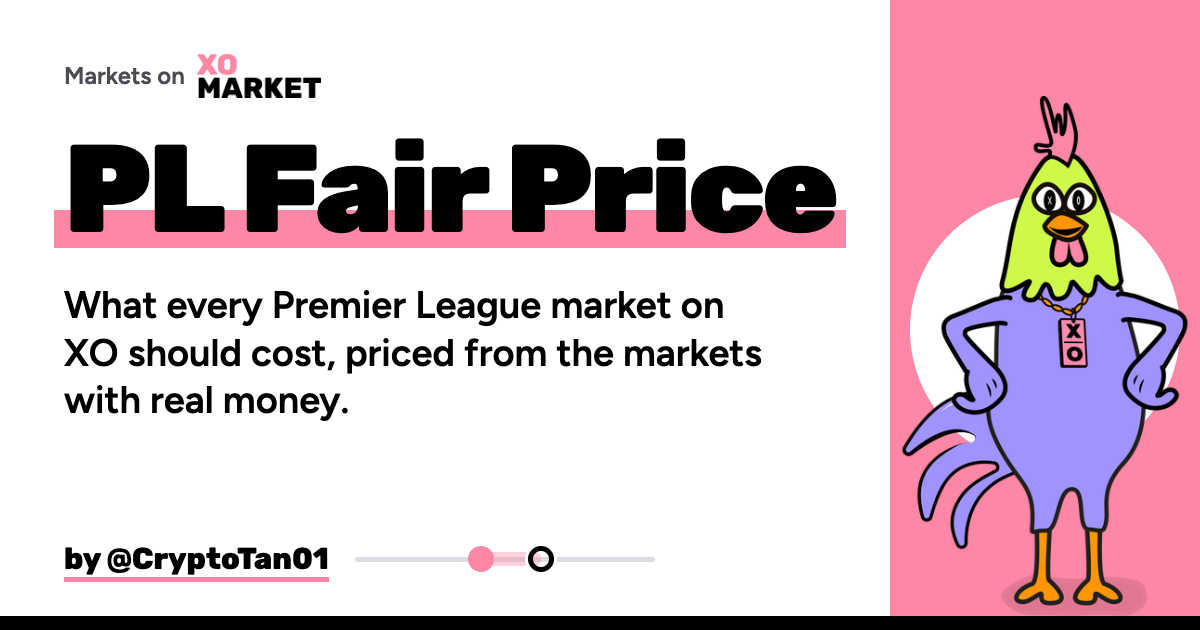
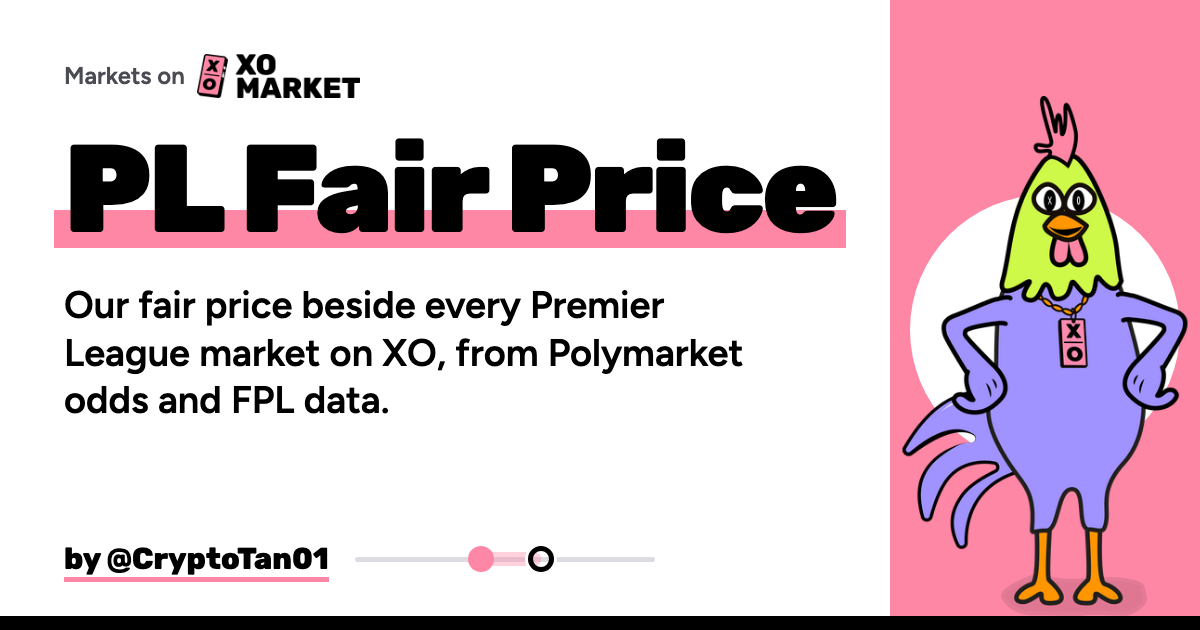
PL Fair Price: XO CTAs, new tagline, in-play markets, click tracking
- index and GW pages: "Trade GW{n} markets on XO" and "New to XO? Sign up"
  links with ?r=cryptotan01 under the GW card and after captain picks.
- Markets: the soonest match not yet kicked off opens by default, and a
  refresh keeps whatever the reader opened or closed.
- Locked markets show a neutral "In play" badge instead of the Trade pill;
  the count line reads "N markets open on XO · M in play".
- Refresh copy: prices refresh every 10 minutes; XO prices poll every 30 s.
- New tagline everywhere (site, engine, og image and og source).
- og.png rebuilt with the brand lockup (black XO MARKET) in place of the
  pink wordmark; Rubik and Figtree per the brand book.
- GW page: visible Polymarket "source" links removed from the goals section.
- GoatCounter: GOATCOUNTER constant, empty = off. One delegated click
  listener counts [data-goatcounter-click] links, so rows drawn later count.

Changed region(s): [[0.0308, 0.4524, 0.6475, 0.6635], [0.1542, 0.0603, 0.3083, 0.181]]

diff --git a/site/app.js b/site/app.js
@@ -31,6 +31,8 @@ async function init() {
 /* ---------- market row ---------- */
 
 const isRough = (m) => !!m.fair && m.fair.confidence === 'low';
+// A market stops trading at its lock: kickoff, or the start of the gameweek that decides it.
+const isOpen = (m) => !m.lock_at || Date.parse(m.lock_at) > Date.now();
 
 function closesText(exp) {
   if (!exp) return null;
@@ -124,8 +126,14 @@ function safeLink(url, text, cls) {
   return u ? h('a', { href: u, target: '_blank', rel: 'noopener', class: cls || null, text }) : null;
 }
 
-function marketLink(m, cls) {
-  return h('a', { href: tradeUrl(m), target: '_blank', rel: 'noopener', class: cls || null, text: m.title });
+function marketLink(m, cls, track) {
+  return h('a', { href: tradeUrl(m), target: '_blank', rel: 'noopener', class: cls || null, text: m.title, 'data-goatcounter-click': track || 'xo-market' });
+}
+
+// A locked market has no trade link: a neutral badge instead.
+function tradePill(m, cls) {
+  return isOpen(m) ? h('a', { class: cls, href: tradeUrl(m), target: '_blank', rel: 'noopener', 'aria-label': 'Trade on XO', 'data-goatcounter-click': 'xo-market' }, 'Trade on', wordmark('wm'))
+    : h('span', { class: 'in-play', text: 'In play' });
 }
 
 function pricePair(m) {
@@ -183,7 +191,7 @@ function marketRow(m, extra, openWhy) {
     isRough(m) ? h('span', { class: 'rough-tag' }, explain('Rough', 'rough')) : null);
   const act = h('div', { class: 'act' },
     h('button', { type: 'button', class: 'win', text: 'What would I win?', onclick: (e) => { const d = e.currentTarget.closest('.mrow').querySelector('.market-details'); d.open = true; d.scrollIntoView({ block: 'nearest' }); } }),
-    h('a', { class: 'trade', href: tradeUrl(m), target: '_blank', rel: 'noopener', 'aria-label': 'Trade on XO' }, 'Trade on', wordmark('wm')),
+    tradePill(m, 'trade'),
   );
   return h('article', { id: m.slug, class: 'mrow' + (extra ? ' ' + extra : '') + (m.is_ours ? ' is-ours' : '') },
     q, closes ? h('p', { class: 'closes', text: closes }) : null, pricePair(m), verdict(m), act, whyDetails(m, openWhy));
@@ -193,9 +201,7 @@ function marketRow(m, extra, openWhy) {
 
 function renderGaps() {
   const sec = document.getElementById('gaps');
-  // a market leaves Best value at its lock: kickoff, or the start of the gameweek that decides it
-  const open = (m) => !m.lock_at || Date.parse(m.lock_at) > Date.now();
-  const list = state.markets.filter((m) => m.fair && ['high', 'medium'].includes(m.fair.confidence) && open(m)).map((m) => {
+  const list = state.markets.filter((m) => m.fair && ['high', 'medium'].includes(m.fair.confidence) && isOpen(m)).map((m) => {
     const choices = ['yes', 'no'].map((side) => ({ side, r: calculateStake(10, side, levels(m, side, 'asks'), m.taker_fee_bps / 10000, m.fair) }));
     return { m, ...choices.sort((a, b) => (b.r.ev || -Infinity) - (a.r.ev || -Infinity))[0] };
   }).filter((x) => x.r.ev > 0).sort((a, b) => b.r.ev - a.r.ev).slice(0, 5);
@@ -203,7 +209,7 @@ function renderGaps() {
   const el = document.getElementById('gaps-list');
   if (!list.length) { el.replaceChildren(h('p', { class: 'empty', text: 'No positive-value trades right now' })); return; }
   el.replaceChildren(...list.map(({ m, side, r }) => h('article', { class: 'value-row' },
-    marketLink(m),
+    marketLink(m, null, 'xo-best-value'),
     h('b', { text: side.toUpperCase() }),
     h('span', { text: `You'd buy at ${pct(r.averagePrice)} · our price ${pct(side === 'yes' ? m.fair.p : 1 - m.fair.p)}` }),
     h('span', null, explain('Expected value', 'ev'), ` ${money(r.ev, true)} per $10`),
@@ -228,7 +234,7 @@ function renderMyMarkets() {
       h('div', { class: 'my-body' },
         m.pitch ? h('div', { class: 'my-call' }, h('h3', { text: 'My call when I made it' }), h('p', { text: m.pitch })) : null,
         pricePair(m),
-        h('div', { class: 'my-actions' }, h('a', { class: 'trade', href: tradeUrl(m), target: '_blank', rel: 'noopener' }, 'Trade on', wordmark('wm'))),
+        h('div', { class: 'my-actions' }, tradePill(m, 'trade')),
         stakePanel(m),
         poster ? h('img', { class: 'market-poster', src: poster, alt: `Poster for ${m.title}`, width: 1080, height: 1350, loading: 'lazy', decoding: 'async' }) : null));
     return card;
@@ -258,21 +264,26 @@ function groupBest(rows) {
   return `Best: ${pick.side.toUpperCase()} ${money(pick.r.ev, true)} per $10`;
 }
 
+// The match group that opened by default on the last render.
+let defaultOpen = null;
+
 function renderMarkets() {
   const root = document.getElementById('mk-list');
   const all = state.markets.filter((m) => !state.query || `${m.title} ${m.fixture ? `${m.fixture.home_name} ${m.fixture.away_name}` : ''}`.toLowerCase().includes(state.query));
-  document.getElementById('mk-count').textContent = `${all.length} live market${all.length === 1 ? '' : 's'} on XO`;
+  const openN = all.filter(isOpen).length;
+  document.getElementById('mk-count').textContent = `${openN} market${openN === 1 ? '' : 's'} open on XO${openN < all.length ? ` · ${all.length - openN} in play` : ''}`;
   if (!all.length) { root.replaceChildren(h('p', { class: 'empty', text: 'No markets match' })); return; }
   const frag = document.createDocumentFragment();
-  const addGroup = (left, meta, rows, note) => {
+  const addGroup = (left, meta, rows, note, key, startOpen) => {
     const bestText = groupBest(rows);
     const head = groupHead(left, [meta, bestText].filter(Boolean).join(' · '));
-    frag.append(h('details', { class: 'group', open: state.query ? true : null }, head, note || null,
+    frag.append(h('details', { class: 'group', 'data-key': key || null, open: state.query || startOpen ? true : null }, head, note || null,
       rows.length ? h('div', { class: 'list' }, rows.map((m) => marketRow(m))) : null));
   };
   const plural = (n) => `${n} market${n === 1 ? '' : 's'}`;
 
   if (state.sort === 'closing') {
+    defaultOpen = null;
     const now = new Date();
     const sorted = [...all].sort((a, b) => (a.exp ?? Infinity) - (b.exp ?? Infinity));
     const groups = new Map();
@@ -303,16 +314,25 @@ function renderMarkets() {
     } else if (m.horizon === 'weekend') weekend.push(m);
     else long.push(m);
   });
-  [...fixtures.values()].sort((a, b) => new Date(a.f.kickoff_utc) - new Date(b.f.kickoff_utc)).forEach(({ f, rows }) => {
+  // Each refresh rebuilds this list, so a group keeps the open or closed state the reader left it in.
+  // The soonest match that has not kicked off opens by default, and again whenever that match changes.
+  const was = new Map([...root.querySelectorAll('.group[data-key]')].map((x) => [x.dataset.key, x.open]));
+  const ordered = [...fixtures.values()].sort((a, b) => new Date(a.f.kickoff_utc) - new Date(b.f.kickoff_utc));
+  const next = ordered.find(({ f }) => Date.parse(f.kickoff_utc) > Date.now());
+  const nextKey = next ? `${next.f.home}-${next.f.away}` : null;
+  const moved = nextKey !== defaultOpen;
+  defaultOpen = nextKey;
+  ordered.forEach(({ f, rows }) => {
     rows.sort(byOursPriced);
+    const key = `${f.home}-${f.away}`;
     const left = h('span', { class: 'gmatch' }, crest(f.home, 24), h('span', { class: 'gname', text: `${f.home_name || teamName(f.home)} v ${f.away_name || teamName(f.away)}` }), crest(f.away, 24));
     const isLive = state.live.has(`${f.home}-${f.away}`);
     const et = elevenText(f.home, f.away);
     const note = h('div', { class: 'group-notes' },
-      isLive ? h('p', { class: 'gnote', text: 'Prices update every 20 minutes during matches.' }) : null,
+      isLive ? h('p', { class: 'gnote', text: 'Our prices refresh every 10 minutes. XO prices on this page update live every 30 seconds.' }) : null,
       elevenLine(et));
     addGroup(isLive ? h('span', { class: 'gmatch' }, left, h('span', { class: 'live' }, 'Live')) : left,
-      `${f.kickoff_utc ? kickoffFmt(f.kickoff_utc) + ' · ' : ''}${plural(rows.length)}`, rows, note);
+      `${f.kickoff_utc ? kickoffFmt(f.kickoff_utc) + ' · ' : ''}${plural(rows.length)}`, rows, note, key, (moved && key === nextKey) || !!was.get(key));
   });
   if (weekend.length) { weekend.sort(byOursPriced); addGroup(h('span', { class: 'gname', text: 'Across the weekend' }), plural(weekend.length), weekend); }
   if (long.length) {

diff --git a/site/index.html b/site/index.html
@@ -4,22 +4,22 @@
 <meta charset="utf-8">
 <meta name="viewport" content="width=device-width, initial-scale=1">
 <title>PL Fair Price</title>
-<meta name="description" content="What every Premier League market on XO should cost, priced from the markets with real money.">
+<meta name="description" content="Our fair price beside every Premier League market on XO, from Polymarket odds and FPL data.">
 <meta name="theme-color" content="#ff87a6">
 <meta property="og:type" content="website">
 <meta property="og:title" content="PL Fair Price by @CryptoTan01">
-<meta property="og:description" content="What every Premier League market on XO should cost, priced from the markets with real money.">
+<meta property="og:description" content="Our fair price beside every Premier League market on XO, from Polymarket odds and FPL data.">
 <meta property="og:image" content="https://tannnnnnnnnnnnn.github.io/pl-fair-price/assets/og.png">
 <meta property="og:image:width" content="1200">
 <meta property="og:image:height" content="630">
 <meta name="twitter:card" content="summary_large_image">
 <meta name="twitter:title" content="PL Fair Price by @CryptoTan01">
-<meta name="twitter:description" content="What every Premier League market on XO should cost, priced from the markets with real money.">
+<meta name="twitter:description" content="Our fair price beside every Premier League market on XO, from Polymarket odds and FPL data.">
 <meta name="twitter:image" content="https://tannnnnnnnnnnnn.github.io/pl-fair-price/assets/og.png">
 <link rel="icon" href="favicon.svg" type="image/svg+xml">
 <link rel="preconnect" href="https://fonts.googleapis.com">
 <link rel="preconnect" href="https://fonts.gstatic.com" crossorigin>
-<link rel="preload" as="image" href="assets/logos/xo-wordmark-black.webp">
+<link rel="preload" as="image" href="assets/logos/xo-lockup-black.webp">
 <link href="https://fonts.googleapis.com/css2?family=Figtree:wght@400..700&family=Rubik:wght@600..900&display=swap" rel="stylesheet">
 <link rel="stylesheet" href="style.css">
 <script src="common.js" defer></script>
@@ -37,10 +37,10 @@
     </nav>
   </div>
   <div class="wrap hero-grid">
-    <p class="eyebrow">Markets on <img class="wm" src="assets/logos/xo-wordmark-black.webp" width="56" height="20" alt="XO"></p>
+    <p class="eyebrow">Markets on <img class="wm" src="assets/logos/xo-lockup-black.webp" width="74" height="20" alt="XO"></p>
     <h1 class="title"><span class="hl" id="site-name">PL Fair Price</span></h1>
     <p class="by">by <a href="https://x.com/CryptoTan01" target="_blank" rel="noopener">@CryptoTan01</a></p>
-    <p class="tagline" id="site-tagline">What every Premier League market on XO should cost, priced from the markets with real money.</p>
+    <p class="tagline" id="site-tagline">Our fair price beside every Premier League market on XO, from Polymarket odds and FPL data.</p>
     <div class="deadline" id="deadline" aria-live="off">
       <span class="dl-label" id="dl-label">GW deadline</span>
       <div class="dl-boxes" id="dl-boxes"></div>
@@ -61,6 +61,11 @@
     <span class="gwcard-s">Captain picks, clean sheets, injury doubts</span>
     <span class="gwcard-go" aria-hidden="true">&rarr;</span>
   </a>
+
+  <div class="xo-cta">
+    <a class="trade" href="https://beta.xo.market/?r=cryptotan01" target="_blank" rel="noopener" data-goatcounter-click="xo-top-trade"><span>Trade <span data-gw>GW</span> markets on XO</span></a>
+    <a class="xo-signup" href="https://beta.xo.market/?r=cryptotan01" target="_blank" rel="noopener" data-goatcounter-click="xo-top-signup">New to XO? Sign up</a>
+  </div>
 
   <section class="sec" id="gaps" aria-labelledby="gaps-h">
     <div class="sec-head">
@@ -124,7 +129,7 @@
       <div class="foot-cols">
         <p>Our prices use liquid Polymarket odds, a match model and public FPL data. Open any market's Details for its exact method.</p>
         <ul>
-          <li><a href="https://beta.xo.market/?r=cryptotan01" target="_blank" rel="noopener">XO</a> for prices and liquidity</li>
+          <li><a href="https://beta.xo.market/?r=cryptotan01" target="_blank" rel="noopener" data-goatcounter-click="xo-footer">XO</a> for prices and liquidity</li>
           <li><a href="https://polymarket.com/" target="_blank" rel="noopener">Polymarket</a> for match and season odds</li>
           <li><a href="https://fantasy.premierleague.com/" target="_blank" rel="noopener">Fantasy Premier League</a> for players and fixtures</li>
           <li><a href="https://www.elevenify.com" target="_blank" rel="noopener">elevenify</a> for a second opinion</li>

diff --git a/site/gw.html b/site/gw.html
@@ -19,7 +19,7 @@
 <link rel="icon" href="favicon.svg" type="image/svg+xml">
 <link rel="preconnect" href="https://fonts.googleapis.com">
 <link rel="preconnect" href="https://fonts.gstatic.com" crossorigin>
-<link rel="preload" as="image" href="assets/logos/xo-wordmark-black.webp">
+<link rel="preload" as="image" href="assets/logos/xo-lockup-black.webp">
 <link href="https://fonts.googleapis.com/css2?family=Figtree:wght@400..700&family=Rubik:wght@600..900&display=swap" rel="stylesheet">
 <link rel="stylesheet" href="style.css">
 <link rel="stylesheet" href="gw.css">
@@ -36,10 +36,10 @@
     </nav>
   </div>
   <div class="wrap hero-grid">
-    <p class="eyebrow">Markets on <img class="wm" src="assets/logos/xo-wordmark-black.webp" width="56" height="20" alt="XO"></p>
+    <p class="eyebrow">Markets on <img class="wm" src="assets/logos/xo-lockup-black.webp" width="74" height="20" alt="XO"></p>
     <h1 class="title"><span class="hl" id="site-name">PL Fair Price</span></h1>
     <p class="by">by <a href="https://x.com/CryptoTan01" target="_blank" rel="noopener">@CryptoTan01</a></p>
-    <p class="tagline" id="site-tagline">What every Premier League market on XO should cost, priced from the markets with real money.</p>
+    <p class="tagline" id="site-tagline">Our fair price beside every Premier League market on XO, from Polymarket odds and FPL data.</p>
     <label class="odds-label">Odds <select id="odds-format"><option value="percent">%</option><option value="cents">¢</option><option value="decimal">decimal</option><option value="fractional">fractional</option></select></label>
     <picture class="deek">
       <source media="(prefers-reduced-motion: reduce)" srcset="assets/deek/deek-binoculars-still.webp">
@@ -80,6 +80,11 @@
     </details>
     <div id="cp-body"></div>
   </section>
+
+  <div class="xo-cta">
+    <a class="trade" href="https://beta.xo.market/?r=cryptotan01" target="_blank" rel="noopener" data-goatcounter-click="xo-gw-cta"><span>Trade <span data-gw>GW</span> markets on XO</span></a>
+    <a class="xo-signup" href="https://beta.xo.market/?r=cryptotan01" target="_blank" rel="noopener" data-goatcounter-click="xo-gw-signup">New to XO? Sign up</a>
+  </div>
 
   <section class="sec" id="lists" aria-labelledby="ls-h">
     <h2 id="ls-h">Player lists</h2>
@@ -140,7 +145,7 @@
       <div class="foot-cols">
         <p>Our match model starts with liquid Polymarket odds. Player forecasts add public FPL data; elevenify is shown separately as a second opinion.</p>
         <ul>
-          <li><a href="https://beta.xo.market/?r=cryptotan01" target="_blank" rel="noopener">XO</a> for market links and prices</li>
+          <li><a href="https://beta.xo.market/?r=cryptotan01" target="_blank" rel="noopener" data-goatcounter-click="xo-footer">XO</a> for market links and prices</li>
           <li><a href="https://polymarket.com/" target="_blank" rel="noopener">Polymarket</a> for match odds</li>
           <li><a href="https://fantasy.premierleague.com/" target="_blank" rel="noopener">Fantasy Premier League</a> for players and fixtures</li>
           <li><a href="https://www.elevenify.com" target="_blank" rel="noopener">elevenify</a> for a second opinion</li>

diff --git a/site/gw.js b/site/gw.js
@@ -89,7 +89,7 @@ function xoChips(p) {
   const chips = (Array.isArray(p.xo_markets) ? p.xo_markets : []).map((s) => state.bySlug[s]).filter(Boolean).map((m) => {
     const t = m.title.toLowerCase();
     const kind = /\bstart\b/.test(t) ? 'Starts' : /\bvs\b/.test(t) && /(more|most|outscore)/.test(t) ? 'Head to head' : /assist/.test(t) ? 'Assist' : /clean sheet/.test(t) ? 'Clean sheet' : /(score|goal)/.test(t) ? 'Goal' : /captain/.test(t) ? 'Captain' : 'Market';
-    return h('a', { class: 'xchip', href: tradeUrl(m), target: '_blank', rel: 'noopener', title: m.title },
+    return h('a', { class: 'xchip', href: tradeUrl(m), target: '_blank', rel: 'noopener', title: m.title, 'data-goatcounter-click': 'xo-gw-chip' },
       `${kind} · XO ${m.xo_price !== null ? pct(m.xo_price) : 'no trades'}`);
   });
   return chips.length ? h('div', { class: 'xchips' }, chips) : null;
@@ -354,7 +354,7 @@ function renderGoals(proj) {
         h('i', { class: 'home', style: `flex:${f.p_home}` }), h('i', { class: 'draw', style: `flex:${f.p_draw}` }), h('i', { class: 'away', style: `flex:${f.p_away}` })),
       h('div', { class: 'gm-p' }, h('span', { text: `${hn} ${pct0(f.p_home)}` }), h('span', { text: `Draw ${pct0(f.p_draw)}` }), h('span', { text: `${an} ${pct0(f.p_away)}` })),
       elevenLine(et),
-      h('p', { class: 'gm-note' }, volText, safeUrl(f.source_url) ? h('a', { href: safeUrl(f.source_url), target: '_blank', rel: 'noopener', text: ' source' }) : null));
+      h('p', { class: 'gm-note' }, volText));
     attachTip(li, [`${Number(f.lam_home).toFixed(2)} to ${Number(f.lam_away).toFixed(2)} expected goals`, `${hn} ${pct0(f.p_home)} · Draw ${pct0(f.p_draw)} · ${an} ${pct0(f.p_away)}`]);
     return li;
   }));

diff --git a/site/common.js b/site/common.js
@@ -3,10 +3,12 @@
 
 const CONFIG = {
   name: 'PL Fair Price',
-  tagline: 'What every Premier League market on XO should cost, priced from the markets with real money.',
+  tagline: 'Our fair price beside every Premier League market on XO, from Polymarket odds and FPL data.',
   ref: 'cryptotan01',
   minGapPts: 8,
 };
+
+const GOATCOUNTER = '';  // GoatCounter site code; empty = no tracking
 
 const CHANGELOG = [
   { version: 'v1', date: 'Thu 8 Oct 2026', notes: 'First public version: our price beside every Premier League market on XO, GW numbers for FPL managers.' },
@@ -313,4 +315,17 @@ function startCountdown(labelEl, boxEl, wrapEl, endIso, gwId) {
   };
   draw();
   setInterval(draw, 20000);
+}
+
+/* ---------- click tracking, off until GOATCOUNTER is set ---------- */
+
+// GoatCounter binds clicks once at load, so rows drawn later are missed. Its own binding is switched off
+// and one delegated listener counts every [data-goatcounter-click] link instead.
+if (GOATCOUNTER) {
+  window.goatcounter = { no_events: true };
+  document.head.append(h('script', { async: true, src: 'https://gc.zgo.at/count.js', 'data-goatcounter': `https://${GOATCOUNTER}.goatcounter.com/count` }));
+  document.addEventListener('click', (e) => {
+    const link = e.target.closest('[data-goatcounter-click]');
+    if (link && window.goatcounter && window.goatcounter.count) window.goatcounter.count({ path: link.dataset.goatcounterClick, event: true });
+  });
 }

diff --git a/site/style.css b/site/style.css
@@ -150,6 +150,7 @@ button { font: inherit; color: inherit; }
 }
 .trade .wm { height: 18px; width: auto; }
 .trade:hover { background: #1b1b1f; }
+.in-play { display: inline-flex; align-items: center; height: 32px; padding: 0 12px; border-radius: 999px; background: var(--line); color: var(--ink-2); font: 600 12.5px/1 'Figtree', sans-serif; white-space: nowrap; }
 .pays-out { display: none; }
 
 /* closes / liquidity / how we priced it: one flex line, the toggle drops below only when it does not fit */
@@ -226,6 +227,9 @@ button { font: inherit; color: inherit; }
 .gwcard-t { grid-column: 1; font: 800 16px/1.2 'Rubik', sans-serif; }
 .gwcard-s { grid-column: 1; margin-top: 2px; font-size: 13px; font-weight: 600; }
 .gwcard-go { grid-column: 2; grid-row: 1 / 3; display: grid; place-items: center; width: 34px; height: 34px; border-radius: 50%; background: #000; color: #fff; font-size: 18px; line-height: 1; }
+/* XO call to action: the trade pill with a sign-up link beside it */
+.xo-cta { display: flex; flex-wrap: wrap; align-items: center; gap: 10px 16px; margin-top: 14px; }
+.xo-signup { font-size: 13px; font-weight: 700; color: var(--ink); text-decoration-color: var(--pink); text-decoration-thickness: 2px; text-underline-offset: 3px; }
 .legend { margin-top: 6px; font-size: 12.5px; color: var(--ink-2); }
 .legend b { color: var(--ink); font-weight: 700; }
 

diff --git a/site/assets/og.html b/site/assets/og.html
@@ -28,9 +28,9 @@ h1 span{background:linear-gradient(transparent 64%,#ff87a6 64%,#ff87a6 90%,trans
 </style></head>
 <body><div class="card">
   <div class="left">
-    <div class="on">Markets on <img src="og/xo-wordmark-black.png" alt="XO"></div>
+    <div class="on">Markets on <img src="og/xo-lockup-black.png" alt="XO"></div>
     <h1><span>PL Fair Price</span></h1>
-    <p class="tag">What every Premier League market on XO should cost, priced from the markets with real money.</p>
+    <p class="tag">Our fair price beside every Premier League market on XO, from Polymarket odds and FPL data.</p>
     <div class="by"><b><u>by @CryptoTan01</u></b><div class="mini"><i class="seg"></i><i class="dot"></i><i class="ring"></i></div></div>
   </div>
   <div class="right"><div class="disc"></div><img src="og/deek-og.png" alt="Deek"></div>

diff --git a/pipeline/engine.py b/pipeline/engine.py
@@ -1026,7 +1026,7 @@ PICK_SUMMARY = dict(settled=len(settled), won=sum(p_["won"] for p_ in settled),
 OUT.mkdir(parents=True, exist_ok=True)
 (OUT / "board.json").write_text(json.dumps(dict(
     generated_at=GEN, name="PL Fair Price",
-    tagline="What every Premier League market on XO should cost, priced from the markets with real money.",
+    tagline="Our fair price beside every Premier League market on XO, from Polymarket odds and FPL data.",
     gw=dict(id=GW, deadline_utc=NEXT["deadline_time"]), markets=board, receipts=receipts,
     receipt_summary=RECEIPT_SUMMARY, pick_summary=PICK_SUMMARY, best_value=best_value[:5],
     live=[f'{z["h"]}-{z["a"]}' for z in FX if z["live"]]), indent=1))
